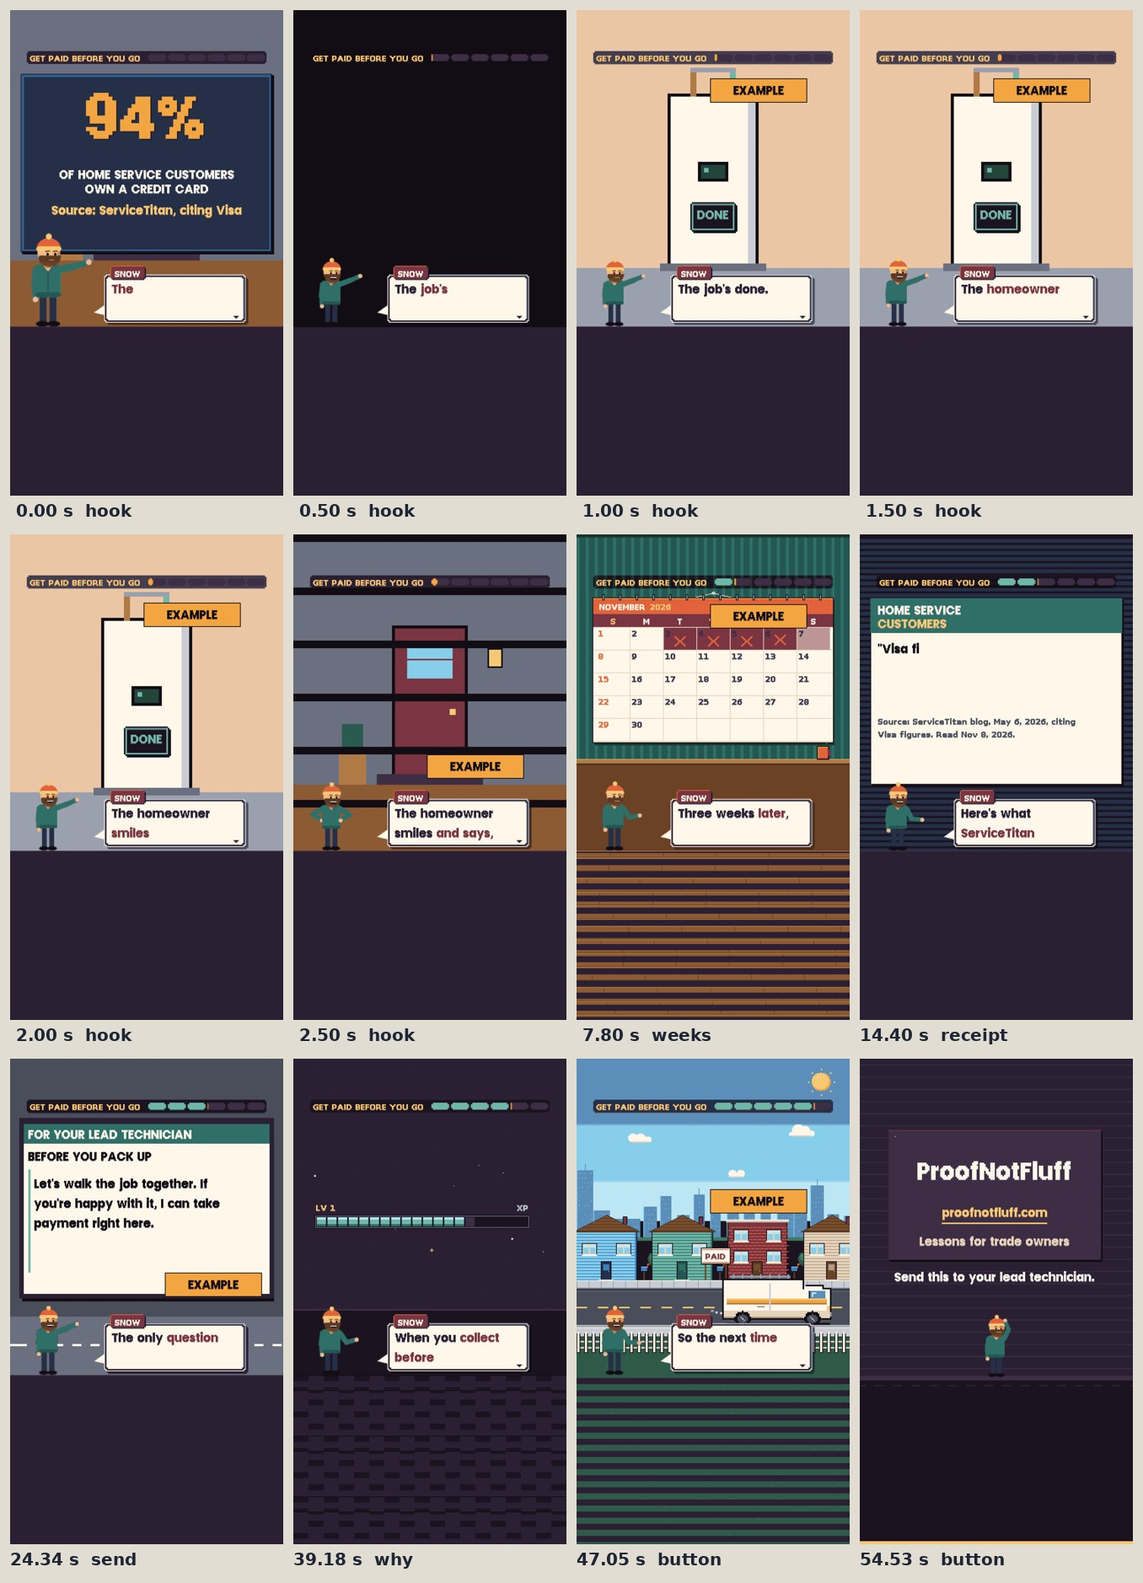
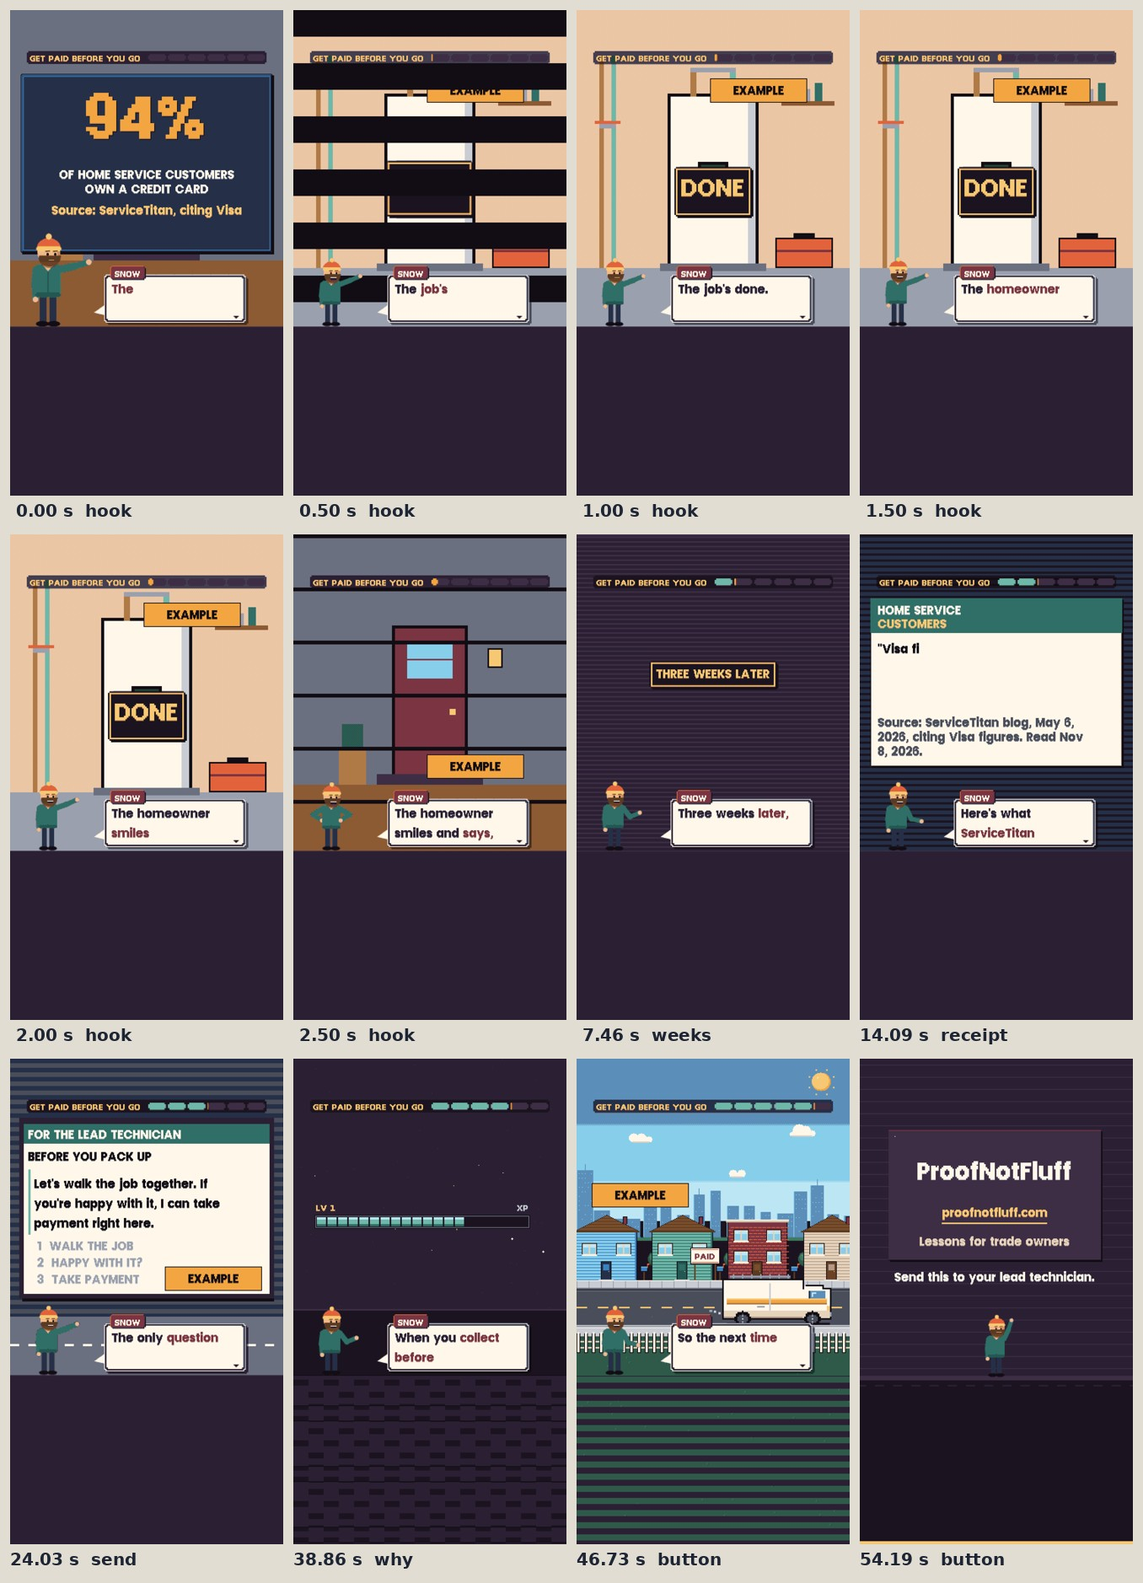
pay-before-you-leave: first proven lesson at 100K+, every gate PASS (facts r1, captions r1, send r1, render critic r1, design 4.71 r1, copy and QA code)
Claude-Session: https://claude.ai/code/session_01XMn4eGEG58REUUVa81Hdcs

diff --git a/video/studio/videos/2026-11-24-pay-before-you-leave/04_scene/scene.js b/video/studio/videos/2026-11-24-pay-before-you-leave/04_scene/scene.js
@@ -43,7 +43,7 @@ const topPlate = (k, d, a, b, t0) => {
 const stampBox = (k, s, cx, y, t0, o = {}) => {
   const size = o.size || 66, c = o.color || GOLD, w = Math.round((Math.max(k.measure(s, {size}), o.sub ? k.measure(o.sub, {size}) : 0) + 54) / 6) * 6, h = size + 36 + (o.sub ? size + 12 : 0), x = Math.round((cx - w / 2) / 3) * 3;
   k.stampIn(t0, () => {
-    k.shape(k.rectPts(x + 6, y + 6, w, h, 0), {fill: INK, line: false}); k.shape(k.rectPts(x, y, w, h, 0), {fill: NIGHT, line: false});
+    k.shape(k.rectPts(x + 6, y + 6, w, h, 0), {fill: INK, line: false}); k.shape(k.rectPts(x, y, w, h, 0), {fill: o.bg || NIGHT, line: false});
     k.shape(k.rectPts(x + 6, y + 6, w - 12, 6, 0), {fill: c, line: false}); k.shape(k.rectPts(x + 6, y + h - 12, w - 12, 6, 0), {fill: c, line: false});
     k.shape(k.rectPts(x + 6, y + 6, 6, h - 12, 0), {fill: c, line: false}); k.shape(k.rectPts(x + w - 12, y + 6, 6, h - 12, 0), {fill: c, line: false});
     k.text(s, x + w / 2, y + 18, {size, color: c, align: 'center'}); if (o.sub) k.text(o.sub, x + w / 2, y + 30 + size, {size, color: c, align: 'center'});
@@ -56,7 +56,7 @@ const fadeSteps = (d, step) => { if (step <= 0) return; if (step >= 4) { d.P(0, 
 /* a blinds wipe between rooms inside a cue (design: no plain cuts): six ink bars close over 3 frames, open over 3 */
 const blinds = (d, T, at) => {
   const f = Math.floor((T - at) * 30 + 0.005); if (f < -3 || f > 3) return;
-  const h = Math.round(70 * (1 - Math.abs(f) / 3.5)); for (let i = 0; i < 6; i++) d.P(0, i * 70, 360, Math.min(70, h), INK);
+  const h = Math.round(35 * (1 - Math.abs(f) / 3.5));   /* design r0: never more than half dark */ for (let i = 0; i < 6; i++) d.P(0, i * 70, 360, Math.min(70, h), INK);
 };
 /* her porch: siding, the front door with its glass, a porch light, the mat, a potted plant */
 const porch = (k, d) => {
@@ -75,24 +75,29 @@ const utility = (k, d) => {
   P(120, 110, 120, 230, INK); P(124, 114, 112, 222, '#E6E9F0'); P(124, 114, 12, 222, '#FFFFFF'); P(226, 114, 10, 222, '#B9BEC8');
   P(150, 80, 8, 34, '#B07A47'); P(202, 80, 8, 34, '#6FB7A8'); P(150, 76, 60, 6, '#8C8F99');
   P(110, 334, 140, 10, '#5C606E'); P(160, 200, 40, 26, INK); P(164, 204, 32, 18, '#24453A'); P(168, 208, 6, 6, '#6FB7A8');
+  /* design r0: a working room: copper and PEX runs, a shelf of fittings, a toolbox on the floor, a shutoff valve */
+  P(30, 60, 6, 280, '#B07A47'); P(46, 60, 6, 280, '#6FB7A8'); P(30, 150, 22, 6, '#8C8F99'); P(24, 146, 34, 4, RED);
+  P(270, 120, 70, 6, '#7A5A40'); P(276, 100, 12, 20, '#F4E6D3'); P(294, 104, 14, 16, '#9AA0AD'); P(314, 96, 10, 24, '#2F6F67');
+  P(262, 300, 76, 40, INK); P(264, 302, 72, 36, RED); P(286, 294, 28, 8, INK); P(264, 316, 72, 3, '#7A3442');
 };
 /* the 100 cards: a 10 x 10 grid, the first n lit (n from data.js), filling a few per frame from t0 */
 const cardGrid = (k, d, n, t0) => {
   const {P} = d, lit = Math.min(n, Math.max(0, Math.floor((k.T - t0) * 90)));
   for (let i = 0; i < 100; i++) {
-    const x = 95 + (i % 10) * 17, y = 196 + Math.floor(i / 10) * 12, on = i < lit;
-    P(x, y, 14, 9, on ? GOLD : '#3D2E45'); P(x, y + 2, 14, 2, on ? '#B07A47' : '#2B2033');
+    const x = 42 + (i % 10) * 27, y = 236 + Math.floor(i / 10) * 11, on = i < lit;
+    if (on) { P(x, y, 24, 8, GOLD); P(x, y + 2, 24, 1, '#B07A47'); P(x + 3, y + 4, 4, 3, '#E2633B'); }
+    else { P(x, y, 24, 8, INK); P(x + 1, y + 1, 22, 6, '#2B2033'); }
   }
 };
 /* ServiceTitan's line on a card, typed on, with its tag (the real screen, our drawing of it) */
 const sourceCard = (k, d, t0, typeAt) => {
   const {P, win} = d, up = d.ease(t0, 6, 30);
-  win(14, 84 + up, 332, 246, {base: CREAM, hi: '#FFFFFF', lo: SAND, rule: false});
+  win(14, 84 + up, 332, 222, {base: CREAM, hi: '#FFFFFF', lo: SAND, rule: false});
   P(14, 84 + up, 332, 46, DTEAL);
   k.text('HOME SERVICE', 72, 268 + up * 3, {size: 52, color: CREAM});
   k.text('CUSTOMERS', 72, 322 + up * 3, {size: 52, color: GOLD});
-  k.wrap('Source: ServiceTitan blog, May 6, 2026, citing Visa figures. Read Nov 8, 2026.', {size: 48}, 840)
-    .forEach((s, i) => k.text(s, 72, 720 + i * 52 + up * 3, {size: 48, color: SLATE}));
+  k.wrap('Source: ServiceTitan blog, May 6, 2026, citing Visa figures. Read Nov 8, 2026.', {size: 52}, 840)
+    .forEach((s, i) => k.text(s, 72, 712 + i * 56 + up * 3, {size: 52, color: SLATE}));
   if (up) return;
   const n0 = k.data.numbers.own.shown;
   const lines = ['"Visa figures show that', n0 + ' of home service', 'customers own a', 'credit card"'];
@@ -103,17 +108,17 @@ const sourceCard = (k, d, t0, typeAt) => {
 const LINE = "Let's walk the job together. If you're happy with it, I can take payment right here.";
 const driveCard = (k, d, t0) => {
   const {P} = d, up = d.ease(t0 + 0.02, 5, 160), so = d.F % 12;
-  P(0, 0, 360, 417, '#3A4A5E'); for (let y = so - 12; y < 340; y += 12) P(0, Math.max(0, y), 360, Math.max(0, Math.min(y + 6, 340) - Math.max(0, y)), '#33415A');
+  P(0, 0, 360, 417, '#3A4A5E'); for (let y = so - 12; y < 340; y += 12) P(0, Math.max(0, y), 360, Math.max(0, Math.min(y + 6, 340) - Math.max(0, y)), '#25303F');
   P(0, 340, 360, 77, '#5C606E'); for (let x = (d.F % 24) - 24; x < 360; x += 24) P(Math.max(0, x), 376, 12, 3, '#E6E9F0');
   P(16, 82 + up, 332, 238, INK); P(12, 78 + up, 336, 238, '#2B2033'); P(18, 86 + up, 324, 224, CREAM);
   P(18, 86 + up, 324, 26, DTEAL);
   if (up !== 0) return null;
   k.text('FOR THE LEAD TECHNICIAN', 72, 266, {size: 52, color: CREAM});
   k.text('BEFORE YOU PACK UP', 72, 354, {size: 80, color: INK});
-  P(24, 146, 312, 136, '#E6F2EF'); P(24, 146, 3, 136, TEAL);
+  P(24, 146, 312, 86, '#E6F2EF'); P(24, 146, 3, 86, TEAL);
   const ls = k.wrap(LINE, {size: 60}, 840);
   ls.forEach((s, i) => k.text(s, 96, 462 + i * 78, {size: 60, color: INK}));
-  exampleTag(d, 204, 282);
+  exampleTag(d, 204, 274);
   return ls;
 };
 const sweepLine = (k, ls, re, at, T) => { const i = ls.findIndex((s) => re.test(s)); if (i >= 0 && T >= at) k.sweep(96, 462 + i * 78 + 66, k.measure(ls[i], {size: 60}), 6, at, {color: 'accent'}); };
@@ -124,10 +129,13 @@ const bubble = (k, d, lines, t0, o = {}) => {
   lines.forEach((s, i) => k.text(s, (X + 14) * 3, (Y + 8 + i * 24) * 3, {size: 60, color: INK}));
 };
 /* the card reader panel in the sky: TAP TO PAY, then APPROVED */
-const reader = (k, d, ok, x, y) => {
-  const {P} = d; P(x + 2, y + 2, 120, 64, INK); P(x, y, 120, 64, '#2B2033'); P(x + 6, y + 6, 108, 36, ok ? '#2F6F67' : '#1F2A40');
-  k.text(ok ? 'APPROVED' : 'TAP TO PAY', (x + 60) * 3, (y + 14) * 3, {size: 52, color: ok ? CREAM : GOLD, align: 'center'});
-  P(x + 40, y + 48, 40, 10, GREY);
+const reader = (k, d, tOk, x, y) => {
+  const {P} = d, ok = k.T >= tOk, f = Math.floor((k.T - tOk) * 30), kick = ok && f < 4 ? (f < 2 ? -3 : -1) : 0, Y = y + kick;
+  P(x + 40, Y + 104, 40, 30, '#C98B5A'); P(x + 34, Y + 98, 52, 10, '#C98B5A');   /* the hand */
+  P(x + 3, Y + 3, 120, 104, INK); P(x, Y, 120, 104, '#2B2033'); P(x + 6, Y + 6, 108, 40, ok ? (f < 2 ? TEAL : '#2F6F67') : '#1F2A40');
+  k.text(ok ? 'APPROVED' : 'TAP TO PAY', (x + 60) * 3, (Y + 16) * 3, {size: 52, color: ok ? CREAM : GOLD, align: 'center'});
+  for (let i = 0; i < 9; i++) P(x + 12 + (i % 3) * 34, Y + 54 + Math.floor(i / 3) * 14, 26, 10, '#4A4E5A');
+  if (ok) k.burst((x + 60) * 3, (Y + 26) * 3, tOk, {n: 14, r: 220});
 };
 
 window.SCENE = {
@@ -155,7 +163,7 @@ window.SCENE = {
       }
       if (T < tPorch) {
         utility(k, d); exampleTag(d, 176, 90);
-        stampBox(k, 'DONE', 540, 760, 0.55, {color: TEAL, size: 80, freeze: 4});
+        stampBox(k, 'DONE', 540, 620, 0.55, {color: GOLD, size: 160, freeze: 4});
         blinds(d, T, tJob); blinds(d, T, tPorch);
         return host(k, 'point', 0.55);
       }
@@ -173,13 +181,19 @@ window.SCENE = {
     /* ---- weeks: three weeks crossed off; NO CHECK, NO ANSWER, STILL CHASING on their words ---- */
     weeks: (k, T) => {
       const t0 = k.S('weeks'), d = px(k), tNo = wordT(k, 'weeks', /^no$/i, 1.3) - 0.2, tStop = wordT(k, 'weeks', /^won't/i, 2.5) - 0.2, tChase = wordT(k, 'weeks', /^chasing/i, 5.5) - 0.2;
-      const r = k.sets.calendar({month: 'NOVEMBER', year: 2026, start: 0, days: 30, run: {from: 3, to: 24, at: t0 + 0.2, every: 0.09, c: '#7A3442', mark: 'x'}});
-      exampleTag(d, 150, 276);
+      if (T < t0 + 0.7) {   /* a title beat before the month (the calendar's own 'S' header must not land within 3 s of an earlier 'your': lint M3) */
+        d.P(0, 0, 360, 417, '#2B2033'); for (let y = (d.F >> 1) % 6 - 6; y < 417; y += 6) d.P(0, Math.max(0, y), 360, 2, '#3D2E45');
+        stampBox(k, 'THREE WEEKS LATER', 540, 500, t0, {color: GOLD, size: 72, freeze: 4});
+        return host(k);
+      }
+      const r = k.sets.calendar({month: 'NOVEMBER', year: 2026, start: 0, days: 30, run: {from: 3, to: 24, at: t0 + 0.8, every: 0.08, c: '#7A3442', mark: 'x'}});
+      exampleTag(d, 180, 270);
       const a = (r && r.area) || {x: 330, y: 840, w: 600, h: 300};
       /* one slot under the month, each line replacing the last */
-      if (T >= tChase) k.slam('STILL CHASING', 610, 936, tChase, {size: 56, color: CREAM, align: 'center', drop: INK, from: 0.3});
-      else if (T >= tStop) k.slam('NO ANSWER', 610, 936, tStop, {size: 56, color: GOLD, align: 'center', drop: INK, from: 0.3});
-      else if (T >= tNo) k.slam('NO CHECK', 610, 936, tNo, {size: 56, color: RED, align: 'center', drop: INK, from: 0.3});
+      /* design r0: each beat stamps big on a cream plate over the crossed-off weeks, replacing the last */
+      if (T >= tChase) stampBox(k, 'STILL CHASING', 610, 915, tChase, {color: RED, bg: CREAM, size: 72, freeze: 4});
+      else if (T >= tStop) stampBox(k, 'NO ANSWER', 610, 915, tStop, {color: RED, bg: CREAM, size: 72, freeze: 4});
+      else if (T >= tNo) stampBox(k, 'NO CHECK', 610, 915, tNo, {color: RED, bg: CREAM, size: 72, freeze: 4});
       return host(k, T >= tChase ? 'shrug' : null);
     },
 
@@ -194,10 +208,11 @@ window.SCENE = {
       }
       d.P(0, 0, 360, 417, '#1F2A40'); for (let y = (d.F >> 2) % 8 - 8; y < 417; y += 8) d.P(0, Math.max(0, y), 360, 2, '#24304A');
       k.text('Source: ServiceTitan, citing Visa', 540, 266, {size: 52, color: CREAM, align: 'center', drop: INK});
-      k.text(n.shown, 540, 318, {size: 200, color: GOLD, align: 'center', drop: INK});
-      k.text('OWN A CREDIT CARD', 540, 530, {size: 56, color: CREAM, align: 'center', drop: INK});
+      k.text(n.shown, 540, 312, {size: 260, color: GOLD, align: 'center', drop: INK});
+      k.text('OF HOME SERVICE CUSTOMERS', 540, 584, {size: 52, color: CREAM, align: 'center', drop: INK});   /* facts r0: the base */
+      k.text('OWN A CREDIT CARD', 540, 640, {size: 52, color: CREAM, align: 'center', drop: INK});
       cardGrid(k, d, n.value, tHero + 0.1);
-      if (T >= tHas) k.sweep(330, 590, 420, 6, tHas, {color: 'accent'});
+      if (T >= tHas) k.sweep(330, 696, 420, 6, tHas, {color: 'accent'});
       if (T < tHero + 0.13) fadeSteps(d, 4 - Math.floor((T - tHero) / 0.033));
       return host(k, T >= tHero + 0.6 ? 'point' : null);
     },
@@ -210,7 +225,16 @@ window.SCENE = {
         const tLead = w(/^lead/i, 5.6), tLine = w(/^line/i, 8.7), tPay = w(/^payment/i, 11.8), tCard = w(/^card$/i, 13.2);
         if (T >= tLead) k.sweep(72, 266 + 58, k.measure('FOR THE LEAD TECHNICIAN', {size: 52}), 6, tLead, {color: 'accent'});
         sweepLine(k, ls, /walk/, tLine, T);
+        /* design r0: the three steps, each lit on its word */
+        const tWalk = w(/^walk/i, 10.5), tHer = w(/^her/i, 11.2), tPayS = w(/^payment/i, 11.9);
+        [['1  WALK THE JOB', tWalk], ['2  HAPPY WITH IT?', tHer], ['3  TAKE PAYMENT', tPayS]].forEach(([st, at], i) => {
+          const on = T >= at; if (on) d.P(26, 236 + i * 22, 6, 18, ORANGE);
+          k.text(st, 108, 708 + i * 66, {size: 64, color: on ? INK : GREY});
+        });
         sweepLine(k, ls, /payment/, tPay, T);
+        const tDrive = w(/^driveway/i, 3.2), tTap = w(/^tap/i, 13.8), wPack = k.measure('BEFORE YOU PACK UP', {size: 80});
+        if (T >= tDrive && T < tTap) k.sweep(72, 354 + 86, wPack, 6, tDrive, {color: 'accent'});
+        if (T >= tTap) k.sweep(72, 354 + 86, wPack, 6, tTap, {color: 'accent'});
       }
       return host(k, ls ? 'point' : null);
     },
@@ -218,9 +242,10 @@ window.SCENE = {
     /* ---- why: the bar fills; PAID ON SITE stamps on "there's"; the two reasons land on their words ---- */
     why: (k, T) => {
       const t0 = k.S('why'), tThere = wordT(k, 'why', /^there's/i, 1.8) - 0.1, tFix = wordT(k, 'why', /^there$/i, 6.3) - 0.15;
-      k.sets.levelup({from: 0, to: 100, max: 100, at: t0 + 0.1, dur: 1.4, levelAt: tThere, text: 'PAID ON SITE'});
-      if (T >= tThere) k.slam('+ NO CHECK TO CHASE', 540, 820, tThere, {size: 56, color: CREAM, align: 'center', drop: INK, from: 0.3});
-      if (T >= tFix) k.slam('+ FIX IT WHILE THERE', 540, 900, tFix, {size: 56, color: GOLD, align: 'center', drop: INK, from: 0.3});
+      const lv = T < tThere ? {from: 0, to: 100, at: t0 + 0.1, dur: 1.4} : T < tFix ? {from: 100, to: 145, at: tThere, dur: 0.5} : {from: 145, to: 190, at: tFix, dur: 0.5};
+      k.sets.levelup(Object.assign(lv, {max: 100, levelAt: tThere, text: 'PAID ON SITE'}));   /* design r0: each perk refills the bar */
+      if (T >= tThere) k.slam('+ NO CHECK TO CHASE', 540, 690, tThere, {size: 56, color: CREAM, align: 'center', drop: INK, from: 0.3});
+      if (T >= tFix) k.slam('+ FIX IT WHILE THERE', 540, 766, tFix, {size: 56, color: GOLD, align: 'center', drop: INK, from: 0.3});
       return host(k, T >= tThere ? 'point' : null);
     },
 
@@ -229,8 +254,8 @@ window.SCENE = {
       const t0 = k.S('button'), d = px(k), tShe = wordT(k, 'button', /^she'll/i, 1.6) - 0.2, tReader = wordT(k, 'button', /^card$/i, 4.6) - 0.2;
       k.sets.street({t0: t0 + 0.6, speed: 1, stopAt: tReader - 0.6, stopDur: 0.8, sign: 'PAID', van: true});
       if (T < tReader) bubble(k, d, ["I'll mail", 'a check."'], tShe, {w: 200, x: 20});
-      else reader(k, d, T >= tReader + 0.4, 120, 96);
-      exampleTag(d, 182, 164);
+      else reader(k, d, tReader + 0.4, 180, 92);
+      exampleTag(d, 20, 164);
       return host(k, T >= tReader ? 'wave' : null);
     },
   },

diff --git a/video/studio/videos/2026-11-24-pay-before-you-leave/03_cues/cues.js b/video/studio/videos/2026-11-24-pay-before-you-leave/03_cues/cues.js
@@ -1,1 +1,1 @@
-window.CUES = {"schema": "pnf.studio.cues.v1", "source": "whisper medium.en int8, re-spelled from script.md", "music": {"id": "rooms", "level": 0.16, "tune": "chase"}, "duration": 54.805, "cues": [{"id": "hook", "level": 0, "quote": "The job's done.", "sfx": "pop", "shift": 0.0, "pin": null, "text": "Cover, frame one: the hero panel 94% / OF HOME SERVICE CUSTOMERS / OWN A CREDIT CARD / Source: ServiceTitan, citing Visa, over the porch. At 0.5 s a blinds wipe to the finished job: a new water heater in the utility room, DONE stamps on \"done\" (EXAMPLE). At 2.4 s a blinds wipe to her front porch: \"I'll mail you a check.\" lands in a bubble on \"I'll\". At 4.5 s a blinds wipe to the street: the van drives off (street set), EXAMPLE in the sky.", "t": 0.0, "word": 0, "end": 7.2}, {"id": "weeks", "level": 0, "quote": "Three weeks later,", "sfx": "blip", "shift": 0.0, "pin": null, "text": "The calendar: a run of x's crosses off three weeks (EXAMPLE); NO CHECK lands on \"no check\", NO ANSWER on \"stopped\", STILL CHASING on \"chasing\".", "t": 7.2, "word": 21, "end": 13.799}, {"id": "receipt", "level": 0, "quote": "Here's what ServiceTitan reports", "sfx": "blip", "shift": 0.0, "pin": null, "text": "ServiceTitan's own line on a card, typed on: \"Visa figures show that 94% of home service customers own a credit card\", with its tag (ServiceTitan, After the job: Get paid, manage your reputation, May 6, 2026, citing Visa figures; read Nov 8, 2026). On \"ninety-four\" a four-step fade to the hero: 94% (data.js) over a grid of 100 cards, 94 of them lit, OWN A CREDIT CARD under it, the source on the hood.", "t": 13.799, "word": 40, "end": 23.739}, {"id": "send", "level": 0, "quote": "The only question is", "sfx": "whoosh", "shift": 0.0, "pin": null, "text": "The send card, held still: FOR THE LEAD TECHNICIAN / BEFORE YOU PACK UP / \"Let's walk the job together. If you're happy with it, I can take payment right here.\" (EXAMPLE). Sweeps on \"lead\", \"line\" and \"payment\".", "send": true, "t": 23.739, "word": 66, "end": 38.576}, {"id": "why", "level": 0, "quote": "When you collect before", "sfx": "chime", "shift": 0.0, "pin": null, "text": "Level up: the bar fills; PAID ON SITE stamps on \"there's\"; + NO CHECK TO CHASE lands with it, + FIX IT WHILE THERE on \"there to fix\".", "t": 38.576, "word": 111, "end": 46.445}, {"id": "button", "level": 0, "quote": "So the next time a", "sfx": "chime", "shift": 0.0, "pin": null, "text": "The street again: the van drives up and parks on \"card reader\" with the PAID sign; in the sky her bubble \"I'll mail a check.\" on \"she'll\", then the reader TAP TO PAY turns APPROVED as it parks (EXAMPLE). Holds to the end card.", "t": 46.445, "word": 137, "end": 54.805}]};
+window.CUES = {"schema": "pnf.studio.cues.v1", "source": "whisper medium.en int8, re-spelled from script.md", "music": {"id": "rooms", "level": 0.16, "tune": "chase"}, "duration": 54.492, "cues": [{"id": "hook", "level": 0, "quote": "The job's done.", "sfx": "pop", "shift": 0.0, "pin": null, "text": "Cover, frame one: the hero panel 94% / OF HOME SERVICE CUSTOMERS / OWN A CREDIT CARD / Source: ServiceTitan, citing Visa, over the porch. At 0.5 s a blinds wipe to the finished job: a new water heater in the utility room, DONE stamps on \"done\" (EXAMPLE). At 2.4 s a blinds wipe to her front porch: \"I'll mail you a check.\" lands in a bubble on \"I'll\". At 4.5 s a blinds wipe to the street: the van drives off (street set), EXAMPLE in the sky.", "t": 0.0, "word": 0, "end": 6.86}, {"id": "weeks", "level": 0, "quote": "Three weeks later,", "sfx": "blip", "shift": 0.0, "pin": null, "text": "The calendar: a run of x's crosses off three weeks (EXAMPLE); NO CHECK lands on \"no check\", NO ANSWER on \"won't\", STILL CHASING on \"chasing\".", "t": 6.86, "word": 21, "end": 13.486}, {"id": "receipt", "level": 0, "quote": "Here's what ServiceTitan reports", "sfx": "blip", "shift": 0.0, "pin": null, "text": "ServiceTitan's own line on a card, typed on: \"Visa figures show that 94% of home service customers own a credit card\", with its tag (ServiceTitan, After the job: Get paid, manage your reputation, May 6, 2026, citing Visa figures; read Nov 8, 2026). On \"ninety-four\" a four-step fade to the hero: 94% (data.js) over a grid of 100 cards, 94 of them lit, OWN A CREDIT CARD under it, the source on the hood.", "t": 13.486, "word": 42, "end": 23.426}, {"id": "send", "level": 0, "quote": "The only question is", "sfx": "whoosh", "shift": 0.0, "pin": null, "text": "The send card, held still: FOR THE LEAD TECHNICIAN / BEFORE YOU PACK UP / \"Let's walk the job together. If you're happy with it, I can take payment right here.\" (EXAMPLE). Sweeps on \"lead\", \"line\" and \"payment\".", "send": true, "t": 23.426, "word": 68, "end": 38.263}, {"id": "why", "level": 0, "quote": "When you collect before", "sfx": "chime", "shift": 0.0, "pin": null, "text": "Level up: the bar fills; PAID ON SITE stamps on \"there's\"; + NO CHECK TO CHASE lands with it, + FIX IT WHILE THERE on \"there to fix\".", "t": 38.263, "word": 113, "end": 46.132}, {"id": "button", "level": 0, "quote": "So the next time a", "sfx": "chime", "shift": 0.0, "pin": null, "text": "The street again: the van drives up and parks on \"card reader\" with the PAID sign; in the sky her bubble \"I'll mail a check.\" on \"she'll\", then the reader TAP TO PAY turns APPROVED as it parks (EXAMPLE). Holds to the end card.", "t": 46.132, "word": 139, "end": 54.492}]};

diff --git a/video/studio/videos/2026-11-24-pay-before-you-leave/02_transcript/mouth.js b/video/studio/videos/2026-11-24-pay-before-you-leave/02_transcript/mouth.js
@@ -1,1 +1,1 @@
[2 lines of base64/hex data omitted]

diff --git a/video/studio/LEARNINGS.md b/video/studio/LEARNINGS.md
@@ -71,3 +71,4 @@ The studio learns in three loops (Todd, Oct 28, 2026, 3:43 pm: "make this video 
 - Nov 7 evening (tiktok): a paste into the default description after a missed click left the Draft editor dropping the first line; reload, Discard the saved draft, re-upload, real click on the box, ctrl+a, one paste event, then check blocks equal the caption.
 - 2026-11-07 evening (cloud, 21:33): no lesson made. Lane story (nextlane: proven, proven, story); no Ready story left unmade and no short owed (ask-chatgpt and lsa-max-bid have theirs). The FCC opt-out lead could not be verified: public-inspection.federalregister.gov, www.bhfs.com and www.servicetitan.com do not resolve from this cloud session, and Claude must open the primary record before Ready (nightshift.md, Leads). Law firm summaries found by search say the FCC order (FCC 26-67, CG Docket 02-278) takes effect Nov 25, 2026 and lets a texter name one exclusive way to opt out; that eases the rule rather than tightening it, so the lead's turn needs the order itself before a story is written. Also: this container's default python3 is 3.11, which cannot parse the repo's tools (f-strings) and has a broken PIL and cryptography; check_repo passes 0 errors under python3.13.
 - 2026-11-07 21 box queue: 10 jobs plus trial twins (5 pulse-feeds, one feed a job; 3 pulse-night-extract of 8 business threads each, phone cluster first: missed calls, answering services, AI booking estimates; 1 FCC order read on fcc.gov for the opt-out lead; 1 captions variants for chatgpt-check-short). Skipped: question page draft (no seo/NEXT.json), backtest (no new Opus verdicts since the 17 slot), permit tags (b1 to b9 not merged yet). Box alive_at 00:38 UTC, stop local off. No rung moves.
+- 2026-11-08 live chat, 2026-11-24-pay-before-you-leave, the first proven lesson at the 100K bar (PROVEN.md row 1, the 10M-view "homeowner won't pay" skit; Visa figures via ServiceTitan: 94% of home service customers own a credit card). Pre-voice facts 3 rounds ("could pay by card" overreached ownership; untested "no awkward calls"; a second number in a quoted card must be bound in data.js or cut). Voice: take 1 re-rolled when Whisper heard "stops" for "stopped" (voice QA FAIL), take 5 re-rolled so no 4-letter word the end card shows ("your") is spoken in its last 3 s. Gates: send PASS r0; render critic PASS r0; captions 2 rounds (TikTok keyword in the first 70 characters); facts 2 rounds (the hero 94% needs its base on screen, not only on the cover); design 4.29 then 4.71. Lint M3 merges any shorter on-screen text that is a prefix of a longer one, so a set's lone letter (the calendar's "S") can date the end card's "Send this to..." to that set's first frame: keep such a set out of the 3 s after a spoken word the end card repeats. Known minor notes left for the next lesson: the send card's step 2 lit on "here's" before step 1 (match whole words), the bubbles lack an opening quote mark, the calendar stamps should be the loudest thing in that room.
